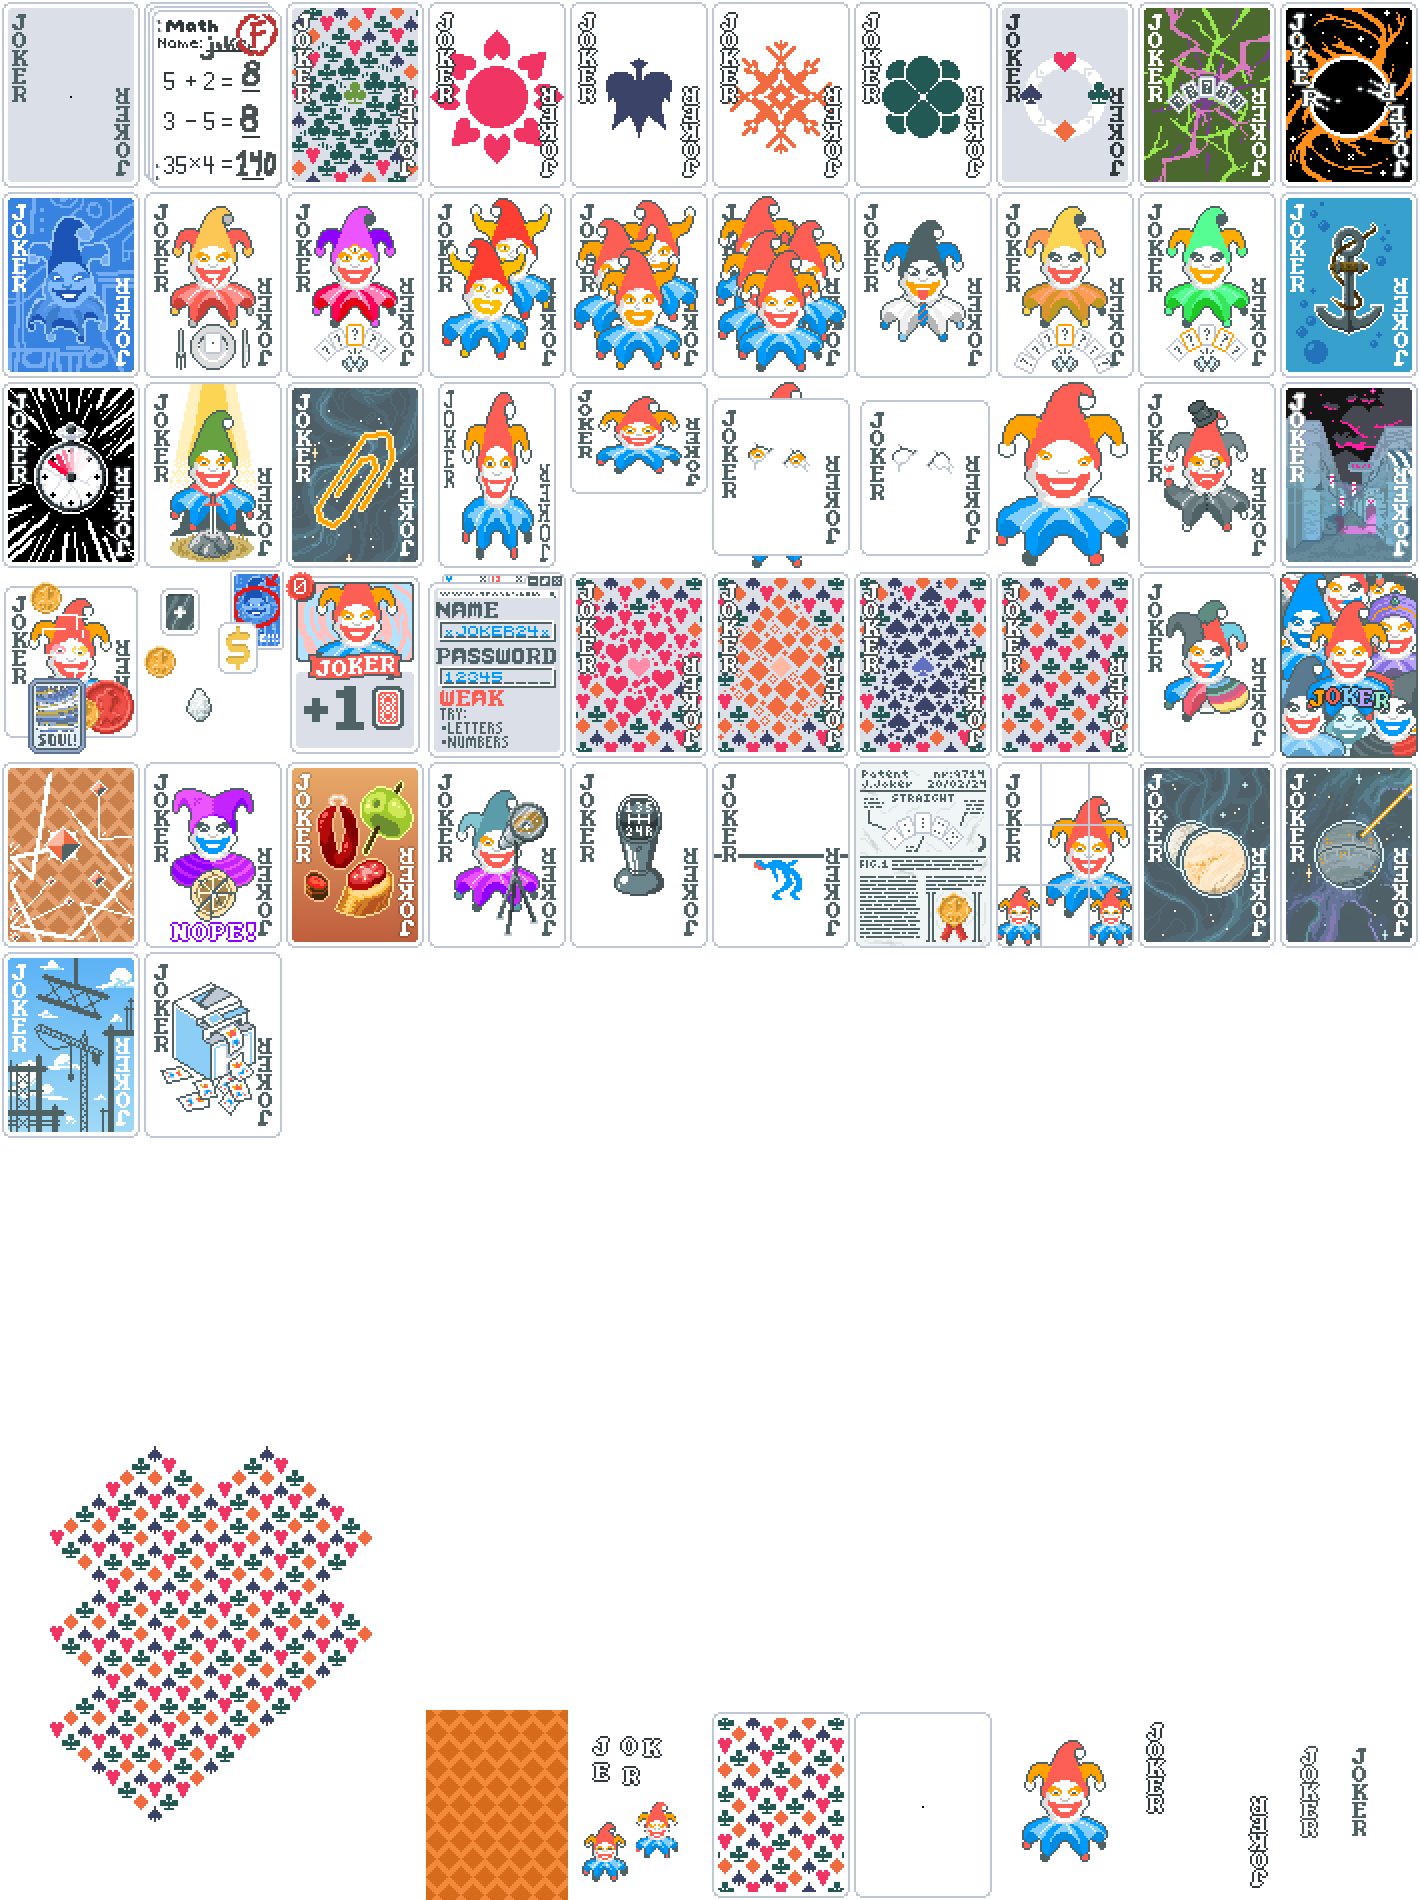
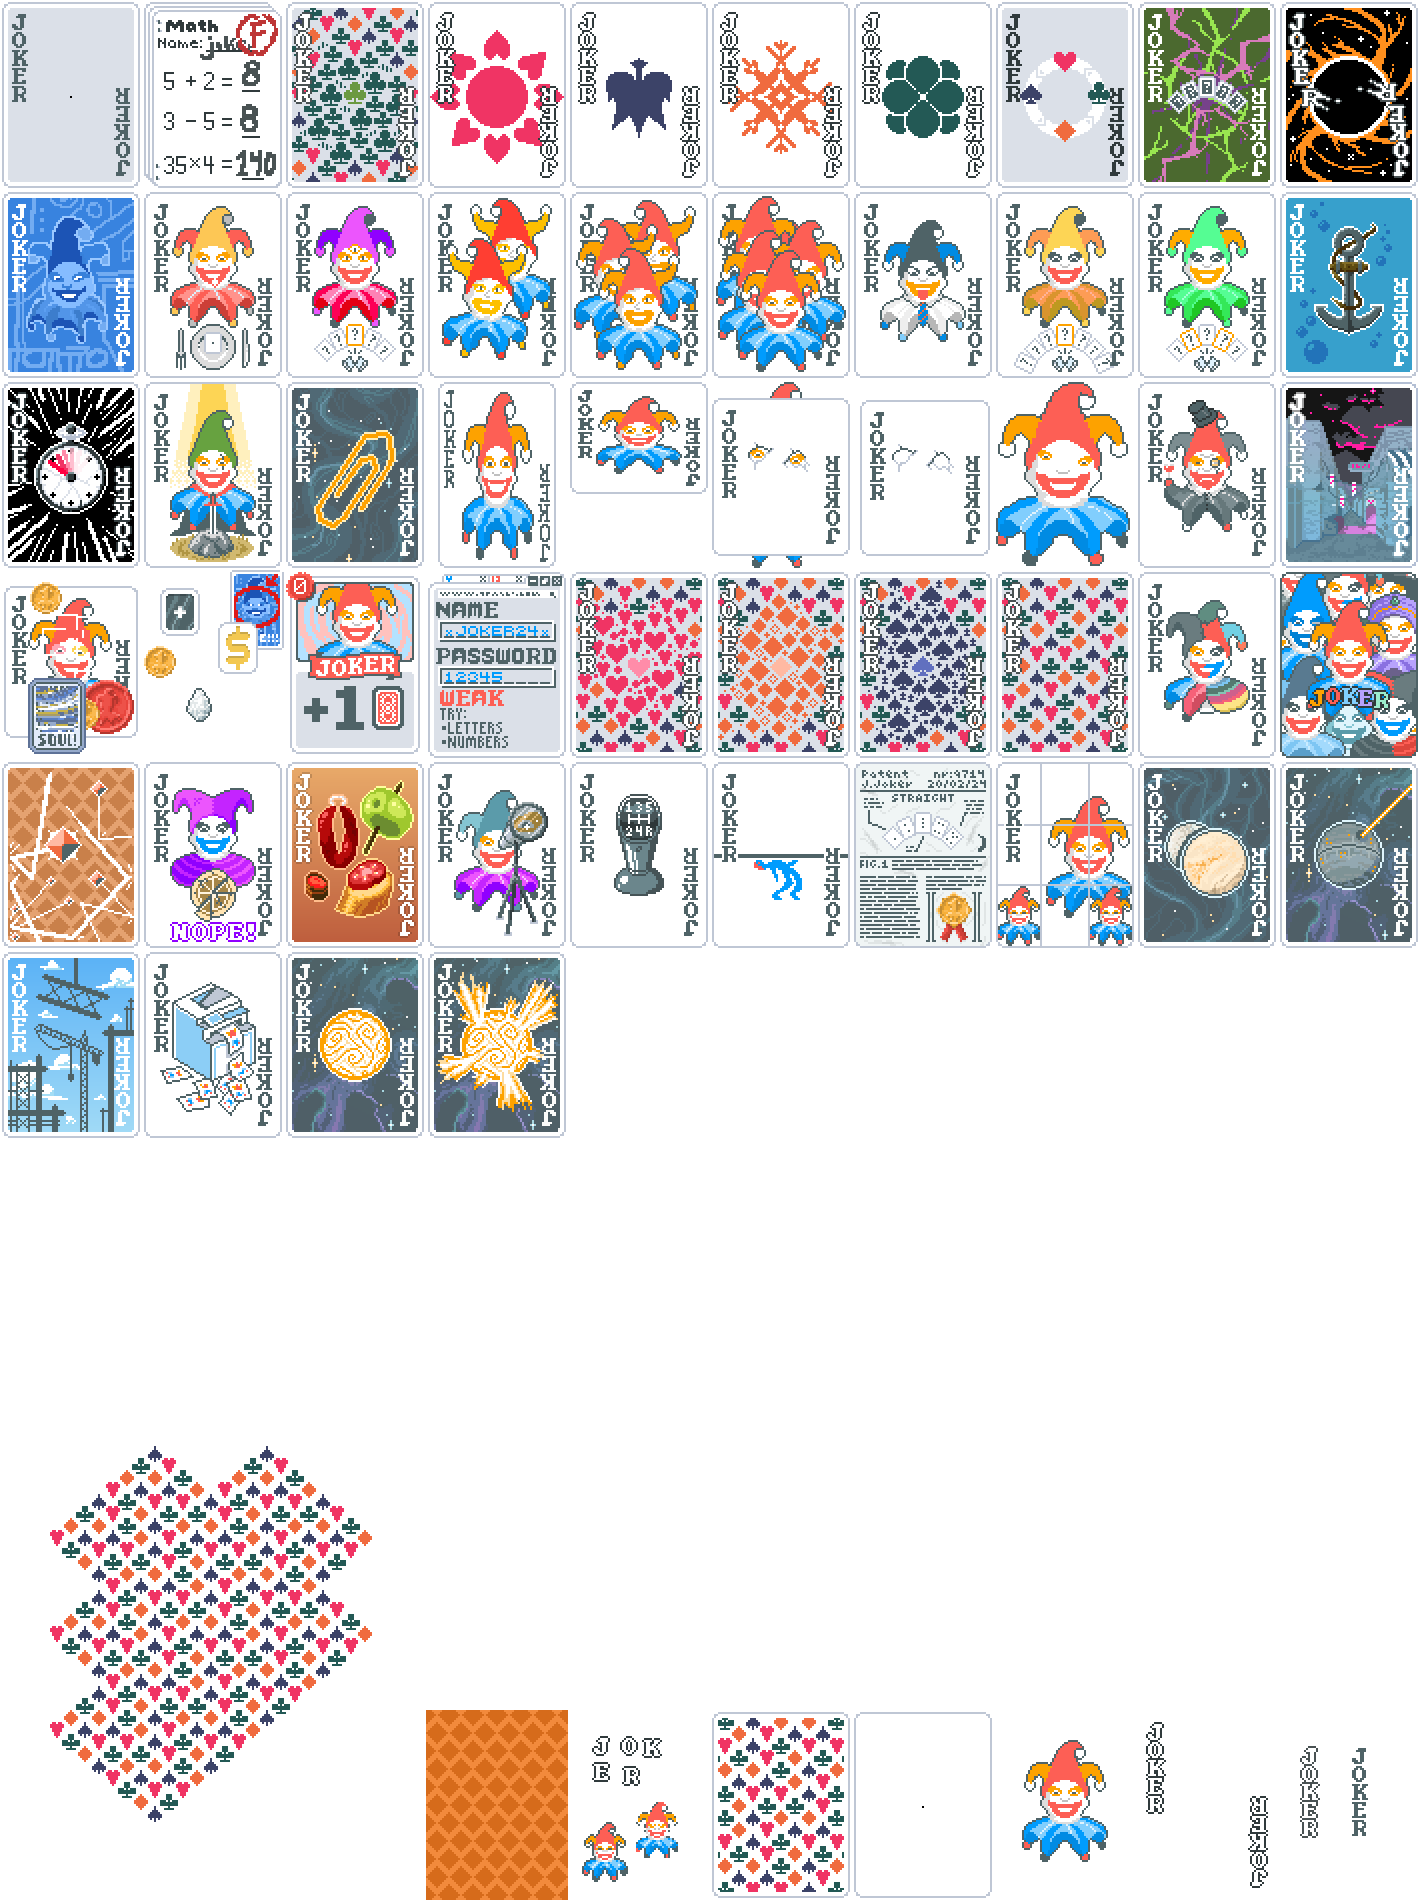
Add the Sun

Changed region(s): [[0.1859, 0.4968, 0.4028, 0.6211]]

diff --git a/web/addjokers.js b/web/addjokers.js
@@ -418,7 +418,7 @@ let jokers = [
   {
     name: "Death Star",
     text: [
-      "{C:red}Removes{} all levels from played {C:attention}poker hand{} and gains the removed {C:blue}Chips{} and {C:mult}Mult{}",
+      "{C:red}Removes{} all level ups from played {C:attention}poker hand{} and gains the removed {C:blue}Chips{} and {C:mult}Mult{}",
     ],
     image_url: "img/j/death_star.png",
     rarity: "Rare"
@@ -438,6 +438,14 @@ let jokers = [
     ],
     image_url: "img/j/printer.png",
     rarity: "Common"
+  },
+  {
+    name: "The Sun",
+    text: [
+      "When {C:attention}Boss Blind{} is defeated, upgrade level of every {C:attention}poker hand",
+    ],
+    image_url: "img/j/sun_explode.png",
+    rarity: "Uncommon"
   },
 
   // {
